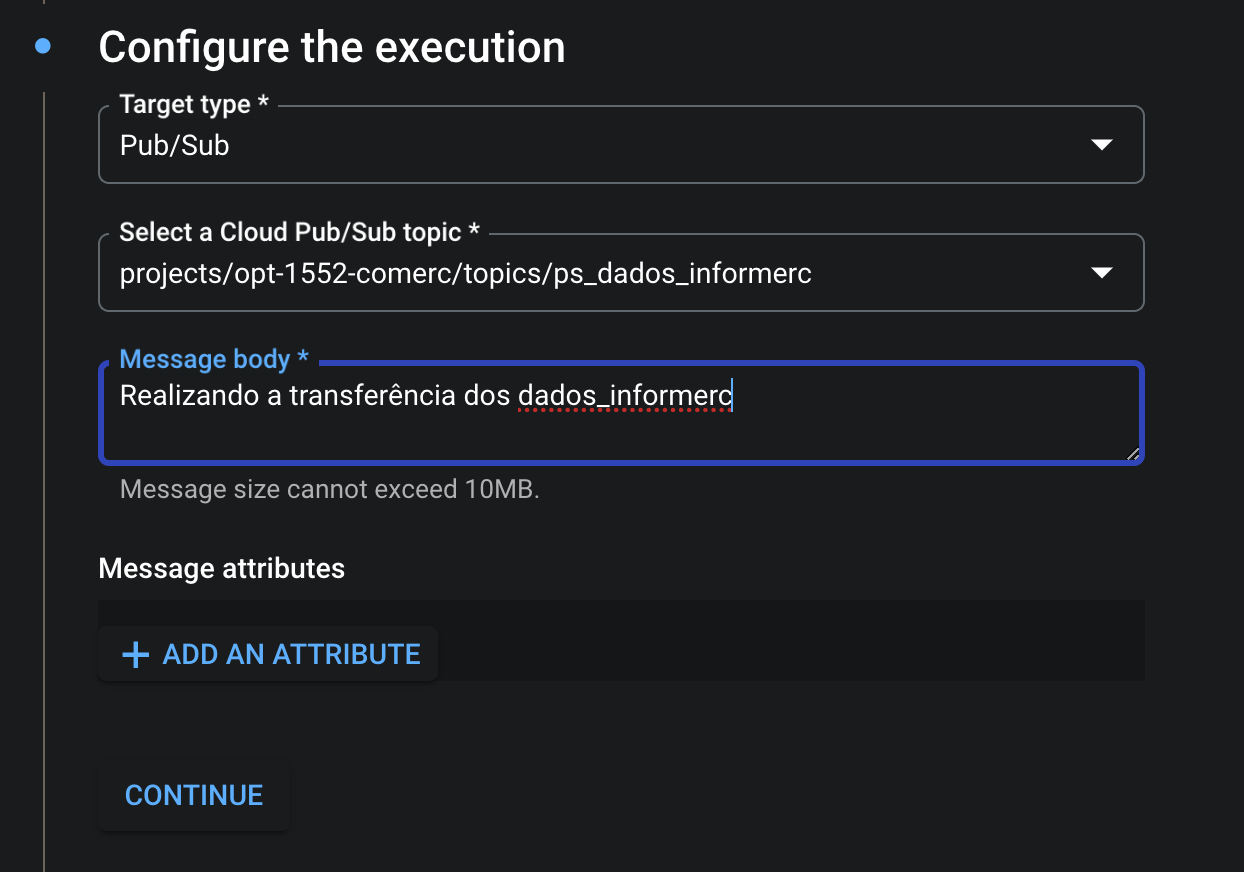
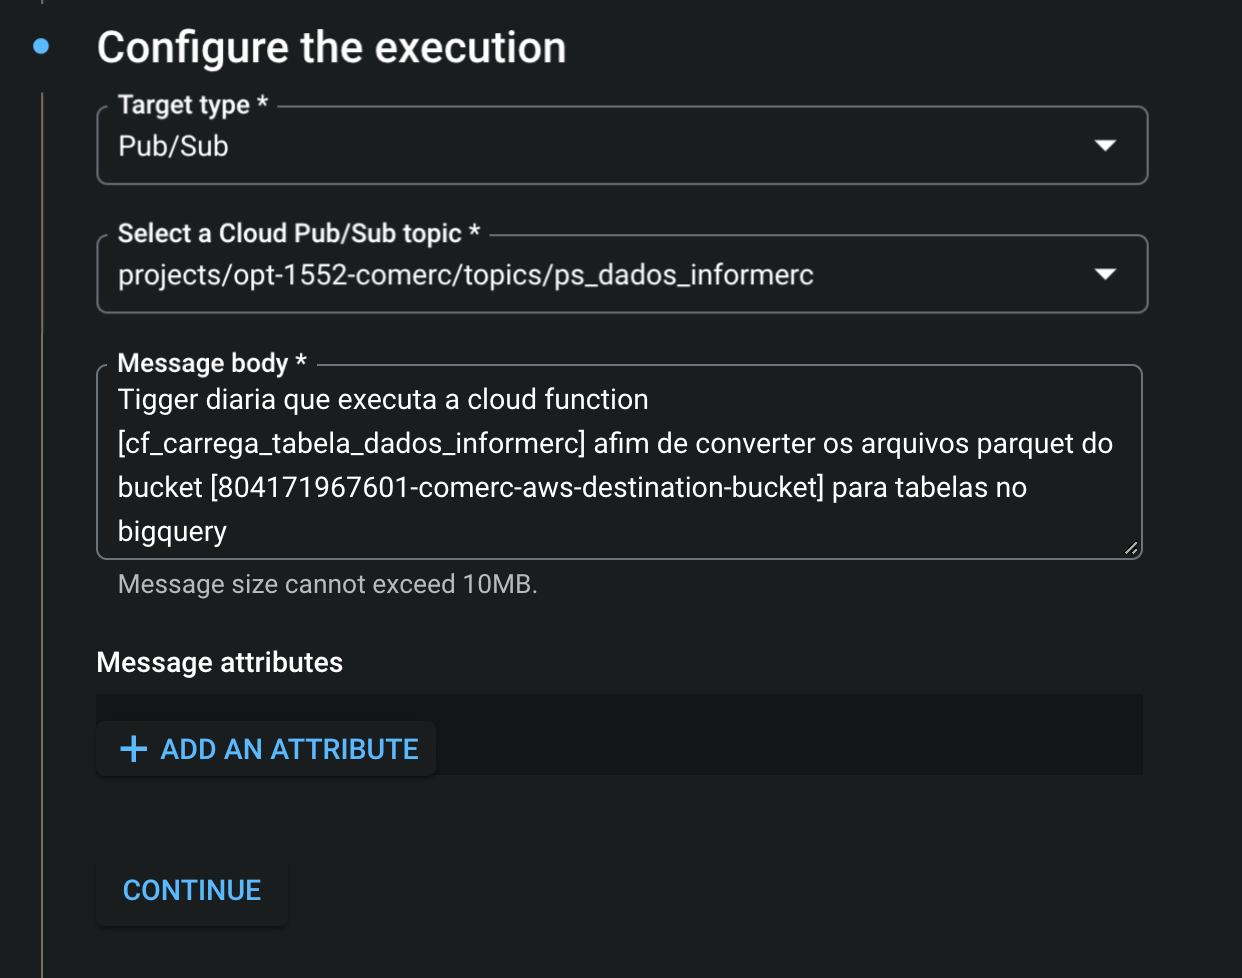
adding cloud function log image and changing pub/sub settings

Changed region(s): [[0.0306, 0.031, 0.9485, 1.0], [0.0918, 0.8979, 0.2142, 0.9289], [0.9179, 0.2787, 0.9485, 0.3096]]

diff --git a/README.md b/README.md
@@ -80,7 +80,7 @@ O objetivo desse projeto é dividido em três partes:
 
             - Clique em **Create**
 
-2. Agora <a id="criacao-dos-jobs"></a> Iremos repetir esse processo de criação para criar os seguintes jobs (vale ressaltar que, os nomes abaixos serão usados nas Description de cada job, como podemos [visualizar aqui](#visualizacao-dos-jobs), assim como serão usados para a criação das buckets no Cloud Storage, como podemos [visualizar aqui](#visualizacao-dos-storages)):
+3. Agora <a id="criacao-dos-jobs"></a> Iremos repetir o processo de criação da [etapa 2](#criacao-tranfer-job) para criar os seguintes jobs (vale ressaltar que, os nomes abaixos serão usados nas Description de cada job, como podemos [visualizar aqui](#visualizacao-dos-jobs), assim como serão usados para a criação das buckets no Cloud Storage, como podemos [visualizar aqui](#visualizacao-dos-storages)):
     - "dados_infomerc" (Já criado no [passo 2](#criacao-tranfer-job))
     - "objeto_dados_energia_gestao_faturas_v2"
     - "objeto_estrutura_atendimento"
@@ -89,10 +89,10 @@ O objetivo desse projeto é dividido em três partes:
     - "objeto_vis_orcamento_multiunidades"
     - "permissionamento_usuarios"
 
-3. <a id="visualizacao-dos-jobs"></a> Após a criação, podemos visualizar os seguintes jobs criados:
+4. <a id="visualizacao-dos-jobs"></a> Após a criação, podemos visualizar os seguintes jobs criados:
 <img src="./images/ref/storage_transfer/last_step.png">
 
-4. <a id="visualizacao-dos-storages"></a>Agora, podemos visualizar, no serviço de <a href="https://console.cloud.google.com/storage/">Cloud Storage</a>, todas as pastas criadas dentro da bucket
+5. <a id="visualizacao-dos-storages"></a>Agora, podemos visualizar, no serviço de <a href="https://console.cloud.google.com/storage/">Cloud Storage</a>, todas as pastas criadas dentro da bucket
 <img src="./images/ref/storage/step_two.png">
    
 
@@ -102,7 +102,7 @@ Para configurarmos a pipeline de processamento e armazenamento de dados, vamos r
 
 1. <a id="trigger-config"></a> Configuração do **Cloud Scheduler** e **Pub/Sub**: configure o cloud scheduler para que possa acionar um tópico do Pub/Sub todos os dias, no mesmo horário:
     - No console do GCP, vá para <a href="https://console.cloud.google.com/cloudscheduler">Cloud Scheduler</a> e clique em "Create job"
-    - Em nome, coloque **cs_dados_infomerc**
+    - Em nome, coloque **cs_dados_infomerc** (O "cs" no início do nome é a abreviação de "Cloud Scheduler")
     - Em Region, coloque em **us-east4**
     - Em frequency, coloque: **"0 8 * * 1-5"** (está é uma especificacao do cliente para este projeto, para mais informações, acesse a <a href="https://cloud.google.com/scheduler/docs/configuring/cron-job-schedules"> documentação oficial da GCP </a>)
       - todos os dias, de segunda as sexta, as 8 horas da manhã
@@ -115,11 +115,12 @@ Para configurarmos a pipeline de processamento e armazenamento de dados, vamos r
       
       <img src="./images/ref/schedule/step_two.png">
     
-    - No painel lateral direito que abrir, coloque o nome do Pub/Sub referente ao Cloud Schedule (nesse caso será **ps_dados_infomerc**)
+    - No painel lateral direito que abrir, coloque o nome do Pub/Sub referente ao Cloud Schedule, nesse caso será **ps_dados_infomerc** (O "ps" no início do nome é a abreviação de "Pub/Sub")
     - Clique em Create
     
       <img src="./images/ref/schedule/step_three.png">
     - Por fim, coloque uma mensagem que será enviado para o Cloud function (a mensagem é obrigatória, mas o seu conteúdo pode ser personalizável).
+      - No exemplo da imagem, usei a Cloud function chamada cf_carrega_tabela_dados_infomerc para tranferir os dados do dados_informerc.
     Está mensagem irá aparecer no início do log de execução da Cloud Function
       
       <img src="./images/ref/schedule/step_four.png">
@@ -139,7 +140,7 @@ Para configurarmos a pipeline de processamento e armazenamento de dados, vamos r
 3. Agora vamos criar as funções na **Cloud Function**, que serão acionadas pelo evento do Pub/Sub. A função irá ler os dados do Cloud Storage, depois irá processar esses dados usando Python e Pandas, e por fim, irá armazenar os dados processados no BigQuery.
     - No console do GCP, vá para <a href="https://console.cloud.google.com/functions/list">Cloud Functions</a> clique em "Create function".
     - Em Enviroment, coloque **1st gen**
-    - Em Name, coloque **cf_carrega_tabela_dados_infomerc**
+    - Em Name, coloque **cf_carrega_tabela_dados_infomerc** (O "cf" no início do nome é a abreviação de "Cloud Function")
     - Em Region, coloque **us-east4**
     - Em Trigger, escolha o Cloud Pub/Sub, e selecione o tópico do pub/sub de acordo com o nome da função e clique em **Save**  
     <img src="./images/ref/function/step_one.png">
@@ -159,15 +160,20 @@ Para configurarmos a pipeline de processamento e armazenamento de dados, vamos r
           
           <img src="./images/ref/function/step_three.png">
   
-    - Repita todo o processo criando as 7 functions (DICA: selecione a função, clique em COPY, e mude o nome e o trigger da função):
-      - "cf_carrega_tabela_dados_infomerc"
-      - "cf_carrega_tabela_objeto_dados_energia_gestao_faturas_v2"
-      - "cf_carrega_tabela_objeto_estrutura_atendimento"
-      - "cf_carrega_tabela_objeto_mailing_powerview"
-      - "cf_carrega_tabela_objeto_unidades_atributos"
-      - "cf_carrega_tabela_objeto_vis_orcamento_multiunidades"
-      - "cf_carrega_tabela_permissionamento_usuarios"
-          <img src="./images/ref/function/step_four.png">
+4. Repita todo o processo criando as 7 functions (DICA: selecione a função, clique em COPY, e mude o nome e o trigger da função):
+    - "cf_carrega_tabela_dados_infomerc"
+    - "cf_carrega_tabela_objeto_dados_energia_gestao_faturas_v2"
+    - "cf_carrega_tabela_objeto_estrutura_atendimento"
+    - "cf_carrega_tabela_objeto_mailing_powerview"
+    - "cf_carrega_tabela_objeto_unidades_atributos"
+    - "cf_carrega_tabela_objeto_vis_orcamento_multiunidades"
+    - "cf_carrega_tabela_permissionamento_usuarios"
+        <img src="./images/ref/function/step_four.png">
+
+5. Após criada a função, podemos visualizar a mensagem que configuramos no Cloud Scheduler para ser enviado para a Cloud Function nos logs da função
+
+    <img src="./images/ref/function/step_five.png"/>
+
 
 ## Erro de quota
 
@@ -185,8 +191,6 @@ Para testar, vamos no cloud Schedule, selecionar um job criado, e clicar em **FO
 Após isso, para visualizarmos os dados, navegue até o <a href="https://console.cloud.google.com/bigquery">BigQuery</a> dentro da console do google, e expanda o nome do seu projeto, você verá todos os dataset criados
 
 ### Visualização da configuração final
-<img src="./images/architectute/architecture_data.svg"/>
-
-Para poder visualizar a imagem melhor, [clique aqui](./images/architectute/architecture_data.png)
+Para visualizar a arquitetura final, [clique aqui](./images/architectute/architecture_data.png)
 
 
